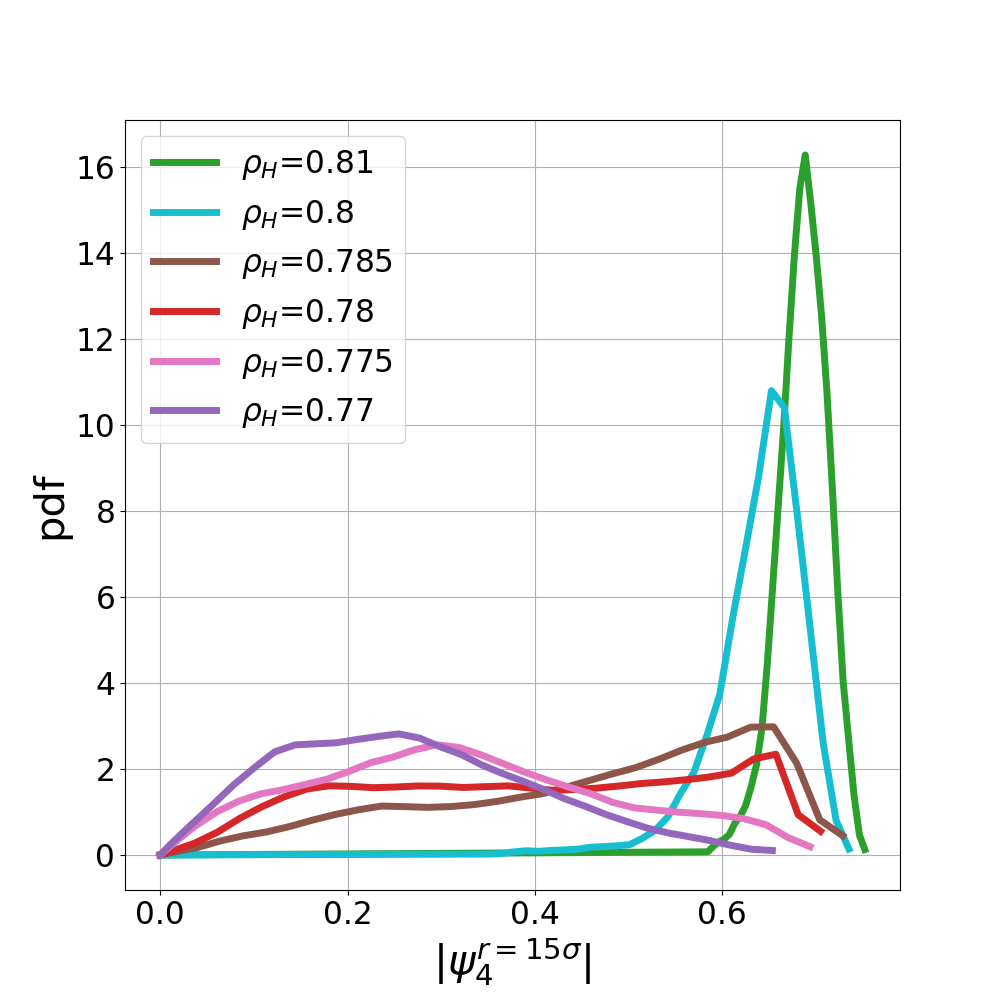
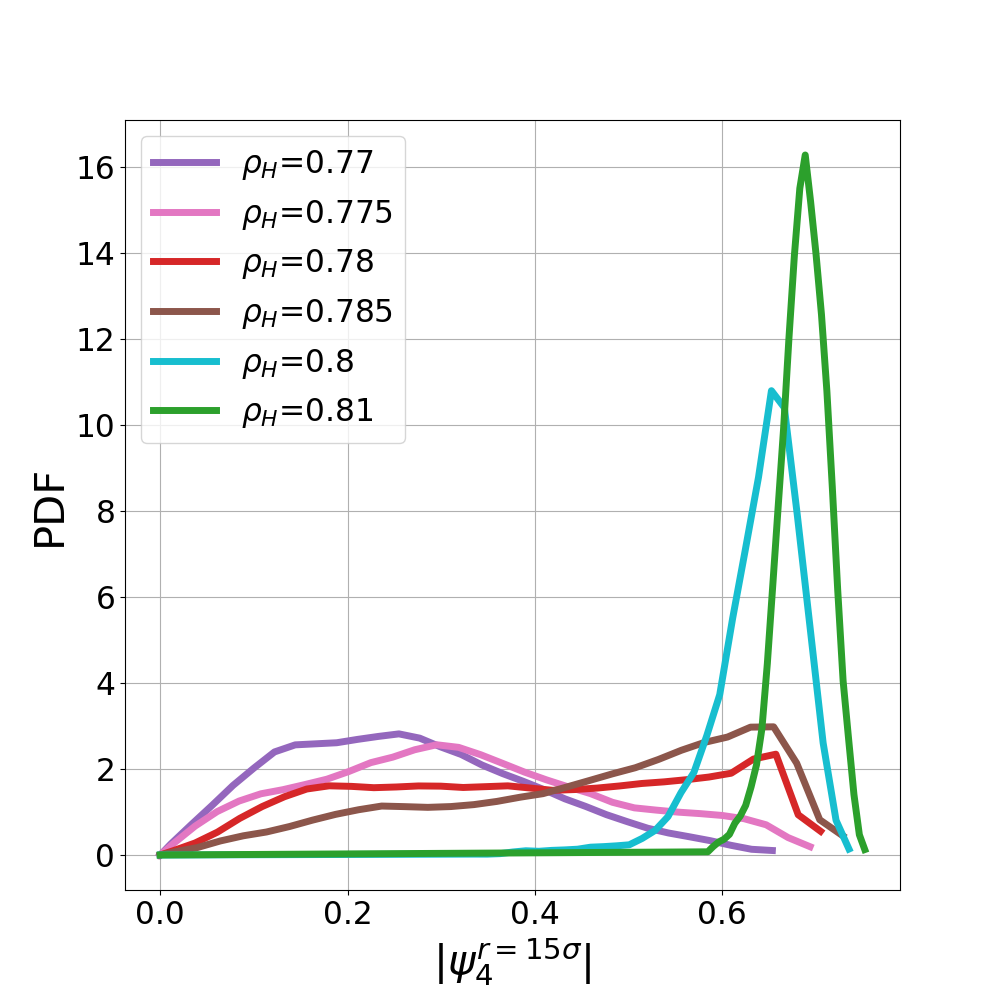
Updated pictures after correcting spelling mistakes and notations

diff --git a/create_all_graphs.py b/create_all_graphs.py
@@ -450,7 +450,7 @@ def plot_local_psi_hist(rhos, rad=30, *args, **kwargs):
     plt.legend()
     plt.grid()
     plt.xlabel('|$\\psi_{4}^{r=' + str(int(rad / 2)) + '\sigma}$|')
-    plt.ylabel('pdf')
+    plt.ylabel('PDF')
     plt.savefig('graphs/local_psi_histogram')
 
 
@@ -591,8 +591,8 @@ def plot_z_histogram(rhoH_vec, *args, **kwargs):
         hist, bin_edges = np.histogram(z, 50, density=True)
         plt.plot((bin_edges[:-1] + bin_edges[1:]) / 2, hist, colors_rho[rhoH], label='$\\rho_H$=' + str(rhoH),
                  linewidth=3)
-    plt.xlabel('height of spheres normalized to [-1,1]')
-    plt.ylabel('pdf')
+    plt.xlabel('normalized sphere height')
+    plt.ylabel('PDF')
     plt.grid()
     plt.legend()
     plt.savefig('graphs/z_histogram')
@@ -653,8 +653,10 @@ def plot_psi_convergence(rhos):
         plt.semilogx(reals, psi_avg, s + colors_rho[rho], label=label, **default_plt_kwargs)
 
     for rho in rhos:
-        plt_rho(rho, prepare_lbl('rhoH=' + str(rho)) + ', N=9e4, square ic')
-        plt_rho(rho, 'N=4e4, honeycomb ic', s='--', initial_conditions='AF_triangle', N=4e4)
+        rho_str = str(rho) if rho != 0.8 else '0.80'
+        plt_rho(rho, prepare_lbl('rhoH=' + rho_str) + ', square ic, N=90,000')
+        # plt_rho(rho, '        honeycomb ic, N=40,000', s='--', initial_conditions='AF_triangle', N=4e4)
+        plt_rho(rho, 'honeycomb ic, N=40,000', s='--', initial_conditions='AF_triangle', N=4e4)
         # plt_rho(rho, prepare_lbl('rhoH=' + str(rho)) + ', square ic')
         # plt_rho(rho, 'honeycomb ic', s='--', initial_conditions='AF_triangle')
     plt.legend(loc=1)
@@ -900,7 +902,7 @@ def coarse_grain_null_model(ref_rhoH, ref_real, pair_cleans=4, clean_by_cluster_
             # plt.plot(x, scipy.stats.expon.pdf(x, scale=pairs_mean_separation), label='exponential pdf')
             plt.grid()
             plt.xlabel('Separation/$\sigma$')
-            plt.ylabel('pdf')
+            plt.ylabel('PDF')
             plt.legend()
 
             ref_burg_clustered_name = 'vec_' + str(realization) + '_paired-4_clustered-D=10.txt'
@@ -985,7 +987,7 @@ if __name__ == "__main__":
     # coarse_grain_null_model(ref_rhoH=rhoH_tetratic, ref_real=realization, distance_threshold=10)
 
     # plot_pos_and_orientation([0.85, 0.83, rhoH_tetratic], [rhoH_tetratic, 0.78, 0.77])
-    plot_ising([0.85, rhoH_tetratic, 0.75], rhoH_anneal=rhoH_tetratic, plot_heat_capcity=False)
+    # plot_ising([0.85, rhoH_tetratic, 0.75], rhoH_anneal=rhoH_tetratic, plot_heat_capcity=False)
     # plot_local_psi_hist(np.unique([rhoH_tetratic, 0.8, 0.785, 0.78, 0.775, 0.77]))
     # plot_magnetic_corr([0.85, 0.83, rhoH_tetratic, 0.77])
     # plot_bragg_peak(0.75)
@@ -993,6 +995,7 @@ if __name__ == "__main__":
     #     plot_color_bargg_peaks([0.75, 0.78, rhoH_tetratic, 0.85], bragg_type=bragg_type)
     # plot_z_histogram([0.71, 0.78, rhoH_tetratic, 0.85])
     # plot_annealing(rhoH_tetratic)  # , real=realization)
-    # plot_psi_convergence(np.unique([0.83, rhoH_tetratic, 0.8, 0.78]))
+    plot_psi_convergence(np.unique([0.83, rhoH_tetratic, 0.8, 0.78]))
     print('Finished succesfully!')
     plt.show()
+# TODO: understand why 0.81<=rho_H<=0.83 runs of annealing Ising did not save any anneal file
